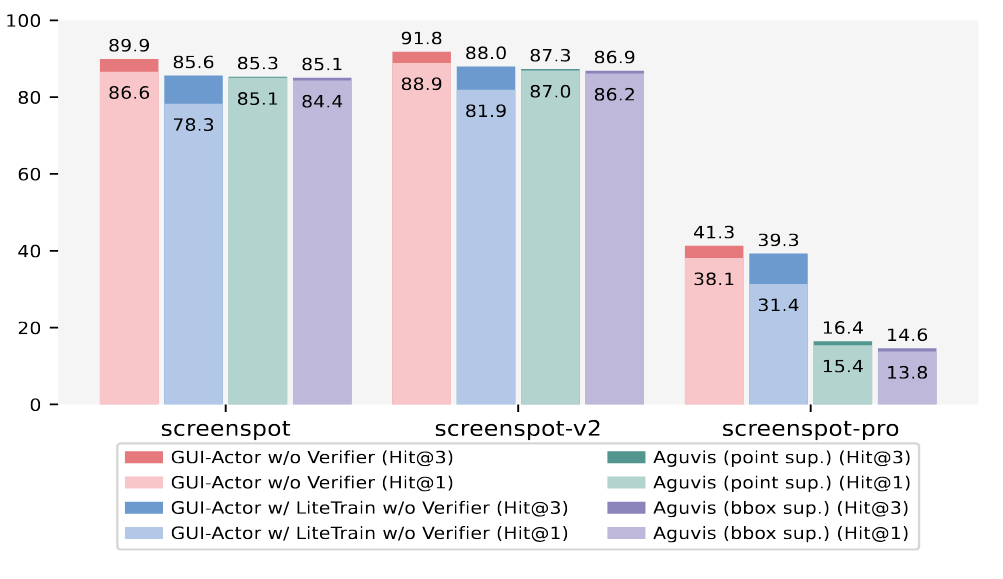
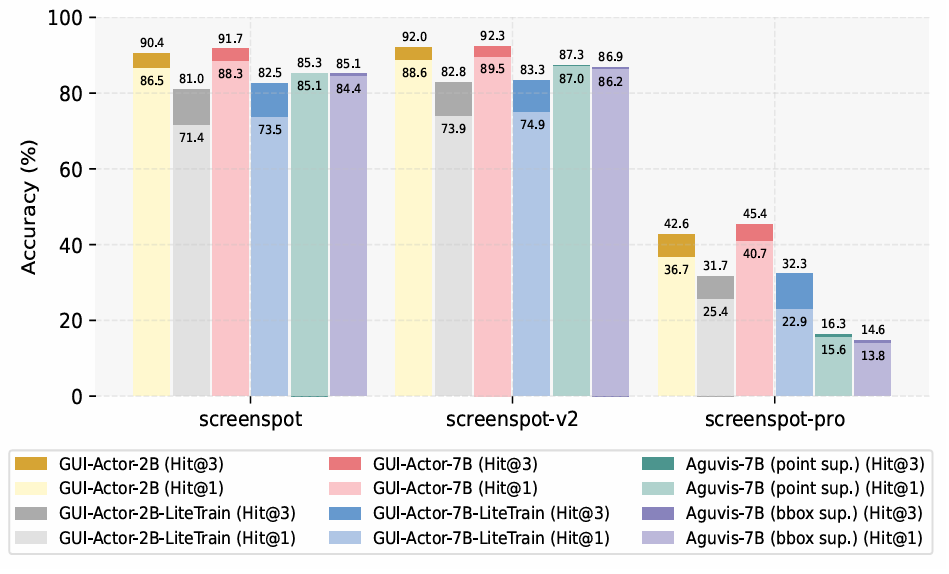
Add all tables.

diff --git a/index.html b/index.html
@@ -21,7 +21,7 @@
   <script src="./static/js/bulma-slider.min.js"></script>
   <script src="./static/js/index.js"></script>
 
-  <link rel="icon" href="">
+  <link rel="icon" href="./static/images/logo.png">
 
   <script type="text/javascript" async src="https://cdnjs.cloudflare.com/ajax/libs/mathjax/2.7.9/MathJax.js?config=TeX-AMS-MML_HTMLorMML"></script>
   <meta property="og:image:width" content="1600" />
@@ -75,6 +75,7 @@
           <div class="columns is-centered">
             <div class="column has-text-centered">
               <div style="display: flex; align-items: center; justify-content: center;">
+                <img src="./static/images/logo.png" alt="GUI-Actor Logo" style="margin-right: 5px; height: 80px;margin-top: -10px;">
                 <h1 class="title is-2 publication-title">GUI-Actor: Coordinate-Free Visual Grounding for GUI Agents</h1>
               </div>
               <div class="is-size-5 publication-authors">
@@ -101,7 +102,7 @@
                   
                   <br>
                   <sup>1</sup>Microsoft Research&nbsp;&nbsp;&nbsp;&nbsp;<sup>2</sup>Nanjing University&nbsp;&nbsp;&nbsp;&nbsp;<sup>3</sup>University of Illinois Urbana-Champaign&nbsp;&nbsp;&nbsp;&nbsp;<br>
-                  <sup>*</sup>First authors.&nbsp;&nbsp;&nbsp;&nbsp;<sup>†</sup>Leadership
+                  <sup>*</sup>Equal Contribution&nbsp;&nbsp;&nbsp;&nbsp;<sup>†</sup>Leadership
                 </span>
               </div>
               <div class="column has-text-centered">
@@ -162,10 +163,9 @@
         </div>  
         <br> 
         <!-- <h2 class="subtitle has-text-centered"> -->
-        <p style="font-size: 100%">
-          <strong>Left: </strong> Comparison across different GUI visual grounding models in terms of training scale and performance.
-          <strong>Middle: </strong> GUI-Actor with lightweight tuning offers a way to effectively endow the underlying VLM with grounding capabilities without compromising its general-purpose strengths. <span style="color: orange;">Need Update: 2B results to replace the second figure (CKZ)</span>
-          <strong>Right: </strong> GUI-Actor grounds target elements by attending to the most relevant visual regions.
+        <p style="font-size: 100%"><strong>Figure 1.</strong>
+          <strong>Left: </strong> Model performance vs. training data scale on the ScreenSpot-Pro benchmark. Higher and more left is better; larger points indicate models with more parameters.
+          <strong>Right: </strong>  Illustration of action attention. GUI-Actor grounds target elements by attending to the most relevant visual regions.
         </p>
         
       </div>
@@ -180,8 +180,11 @@
                 <h3 class="title is-3" style="padding: 0 0 0 0;">Abstract</h3>
                 <div class="content has-text-justified" style="padding-left: 10%; padding-right: 10%;">
                     <p style="font-size: 100%">
-                        One of the principal challenges in building VLM-powered GUI agents is visual grounding—localizing the appropriate screen region for action execution based on both the visual content and the textual plans. Most existing work formulates this as a text-based coordinate generation task. However, these approaches suffer from several limitations: weak spatial-semantic alignment due to the lack of explicit spatial supervision; inability to handle ambiguous supervision targets, as single-point predictions penalize valid variations; and a mismatch between the dense nature of screen coordinates and the coarse, patch-level granularity of visual features extracted by models like Vision Transformers. In this paper, we propose <strong>GUI-Actor</strong>, a VLM-based method for coordinate-free GUI grounding. At its core, <strong>GUI-Actor</strong> introduces an attention-based action head that learns to align a dedicated <i>&lt;ACTOR&gt;</i> token with all relevant visual patch tokens, enabling the model to propose one or more action regions in a single forward pass. In line with this, we design a grounding verifier to evaluate and select the most plausible action region from the candidates proposed for action execution. Extensive experiments show that <strong>GUI-Actor</strong> outperforms prior state-of-the-art methods on multiple GUI action grounding benchmarks, with improved generalization to unseen screen resolutions and layouts. Additionally, we show that by leveraging the verifier, fine-tuning only the newly introduced action head (~100M parameters) while keeping the VLM backbone frozen is sufficient to achieve performance comparable to previous state of the art models, highlighting that <strong>GUI-Actor</strong> can endow the underlying VLM with effective grounding capabilities without compromising its general-purpose strengths. <span style="color: orange;">do we need to modify the LiteTrain part?</span>
-                    </p>
+                        One of the principal challenges in building VLM-powered GUI agents is visual grounding—localizing the appropriate screen region for action execution based on both the visual content and the textual plans. Most existing work formulates this as a text-based coordinate generation task. However, these approaches suffer from several limitations: weak spatial-semantic alignment due to the lack of explicit spatial supervision; inability to handle ambiguous supervision targets, as single-point predictions penalize valid variations; and a mismatch between the dense nature of screen coordinates and the coarse, patch-level granularity of visual features extracted by models like Vision Transformers. In this paper, we propose GUI-Actor, a VLM-based method for coordinate-free GUI grounding. At its core, GUI-Actor introduces an attention-based action head that learns to align a dedicated <i>&lt;ACTOR&gt;</i> token with all relevant visual patch tokens, enabling the model to propose one or more action regions in a single forward pass. In line with this, we further design a grounding verifier to evaluate and select the most plausible action region from the candidates proposed for action execution.
+                        Extensive experiments show that GUI-Actor outperforms prior state-of-the-art methods on multiple GUI action grounding benchmarks, with improved generalization to unseen screen resolutions and layouts.
+                        Notably GUI-Actor-7B (40.7) even surpasses UI-TARS-72B (38.1) on ScreenSpot-Pro, with much fewer parameters and training data.
+                        Furthermore, by incorporating the verifier, we find that fine-tuning only the newly introduced action head (~100M parameters) while keeping the VLM backbone frozen is sufficient to achieve performance comparable to previous state-of-the-art models, highlighting that GUI-Actor can endow the underlying VLM with effective grounding capabilities without compromising its general-purpose strengths.
+                      </p>
                 </div>
             </div>
         </div>
@@ -212,7 +215,7 @@
                         </ul>
                         <p>🎯 <strong>Results:</strong></p>
                         <ul>
-                            <li>GUI-Actor achieves state-of-the-art performance on multiple GUI action grounding benchmarks with the same backbone Qwen2-VL (as Uground and OS-Atlas), demonstrating its effectiveness and generalization to unseen screen resolutions and layouts.</li>
+                            <li>GUI-Actor achieves state-of-the-art performance on multiple GUI action grounding benchmarks, demonstrating its effectiveness and generalization to unseen screen resolutions and layouts. Notably, GUI-Actor-2B even surpasses UI-TARS-72B on ScreenSpot-Pro.</li>
                             <li>We show that by leveraging the verifier, light-weighted training of our GUI-Actor (i.e., freezing the backbone LLM and fine-tuning only the newly introduced ~100M parameters in the action head) can effectively endow the underlying VLM with grounding capabilities without compromising its general-purpose strengths.</li>
                         </ul>
 
@@ -223,7 +226,7 @@
                 </div>
                 <div class="row is-full-width">
                     <div class="content has-text-justified">
-                        <p>
+                        <p> <strong>Figure 2. </strong>Overview of GUI-Actor.</strong>
                             <strong>Left: </strong> Illustration of how the action head works with a VLM for coordinate-free GUI grounding.
                             <strong>Right: </strong> Illustration of the spatial-aware multi-patch supervision for model training. We label all image patches that are partially or fully covered by the ground-truth bounding box as positive (1) and all others as negatives (0).
                         </p>
@@ -244,21 +247,77 @@
             <div class="row is-full-width">
                 <!--h3 class="title is-4"><span class="dvima">Main Result</span></h3-->
                 <p>
-                    Table 1, Table 2, and Table 3 present performance comparisons on ScreenSpot, ScreenSpot-v2, and ScreenSpot-Pro benchmarks, respectively. Our method, <i>GUI-Actor</i>, consistently outperforms existing state-of-the-art approaches across all benchmarks, with the exception of UI-TARS-7B. While UI-TARS-7B achieves strong performance, it benefits from training on a significantly larger dataset that includes both public and proprietary data. Additionally, it undergoes a more extensive training pipeline, including continual pre-training, an annealing phase, and a final stage of direct preference optimization (DPO). Although our model is trained solely with supervised fine-tuning, it achieves competitive or even superior results on ScreenSpot-Pro, demonstrating its strong capability and potential.
+                    Table 1, 2, 3, and 4 present performance comparisons on ScreenSpot-Pro, ScreenSpot, and ScreenSpot-v2 benchmarks. Our <i>GUI-Actor-2B</i> and <i>GUI-Actor-7B</i>, consistently outperform existing state-of-the-art methods across all benchmarks, with the 2B model even surpassing many competing 7B models. While there is one exception UI-TARS-7B achieving stronger performance, it benefits from training on a significantly larger dataset that includes both public and proprietary data (see Figure 1). Additionally, it undergoes a more extensive training pipeline, including continual pre-training, an annealing phase, and a final stage of direct preference optimization (DPO). Although our models are trained solely with supervised fine-tuning, they achieve competitive or even superior results on ScreenSpot-Pro, demonstrating its strong capability and potential.
                 </p>
             </div>
             
             <div class="row is-full-width" style="margin-top: 20px;">
-                <p>Table 1. Performance comparison on ScreenSpot. In <i>GUI-Actor w/ LiteTrain</i>, the backbone VLM is frozen, and only the newly introduced parameters (~100M) are updated during training.</p>
+              <p><strong>Table 1.</strong> Performance comparison on <strong><i>ScreenSpot-Pro</i></strong>, which features higher-resolution interfaces and greater domain shift (<i>e.g.</i>, industrial software, multi-window layouts), serving as a practical testbed for generalization.</p>
+            </div>
+            <div class="row is-full-width is-centered" style="text-align: center;">
+                <img src="./static/images/actor_results_ss_pro.png" width="80%" style="border-radius: 5px;display: inline-block;padding: 0 10px 0 0px;margin: 0 auto;" alt=''>
+            </div>
+
+            <div class="row is-full-width" style="margin-top: 20px;">
+              <p><strong>Table 2.</strong> Performance comparison on <strong><i>ScreenSpot</i></strong>.</p>
             </div>
             <div class="row is-full-width is-centered" style="text-align: center;">
                 <img src="./static/images/actor_results_ss.png" width="80%" style="border-radius: 5px;display: inline-block;padding: 0 10px 0 0px;margin: 0 auto;" alt=''>
+            </div>
+
+            <div class="row is-full-width" style="margin-top: 20px;">
+              <p><strong>Table 3.</strong> Performance comparison on <strong><i>ScreenSpot-v2</i></strong>. † indicates results obtained from our ouwn evaluation of the official model on Huggingface.</p>
+            </div>
+            <div class="row is-full-width is-centered" style="text-align: center;">
+                <img src="./static/images/actor_results_ss_v2.png" width="80%" style="border-radius: 5px;display: inline-block;padding: 0 10px 0 0px;margin: 0 auto;" alt=''>
+            </div>
+
+            <div class="row is-full-width" style="margin-top: 20px;">
+              <p><strong>Table 4.</strong> Performance comparison of models based on the <strong><i>Qwen-2.5-VL</i></strong> backbone.</p>
+            </div>
+            <div class="row is-full-width is-centered" style="text-align: center;">
+                <img src="./static/images/actor_results_qwen25vl.png" width="80%" style="border-radius: 5px;display: inline-block;padding: 0 10px 0 0px;margin: 0 auto;" alt=''>
             </div>
         </div>
     </div>
 </div>
 </section>
 
+<section>
+  <div class="container is-max-desktop">
+      <div class="rows">
+          <div class="rows is-centered">
+              <div class="row is-full-width">
+                  <h2 class="title is-3" style="padding-top: 40px;"><span class="dvima">Robust Out-of-Distribution Generalization</span></h2>
+              </div>
+              <div class="row is-full-width" style="margin-top: 20px;">
+                  <p>As shown in Table 1 and Table 4, GUI-Actor models demonstrate strong performance on ScreenSpot-Pro—an out-of-distribution benchmark characterized by higher resolutions and substantial domain shifts from the training data—surpassing the previous state-of-the-art UI-TARS model by +9.0 and +5.0 points with 2B and 7B parameters, respectively. We attribute this gain to explicit spatial-semantic alignment: unlike coordinate-based approaches such as UI-TARS, GUI-Actor leverages an attention-based action head that grounds semantic cues directly in discrete visual regions. This design embeds a stronger spatial inductive bias and naturally aligns with the patch-based representations of modern vision backbones. As a result, GUI-Actor is better equipped to reason over localized visual content, enabling robust generalization across diverse screen resolutions and UI layouts.</p>
+              </div>
+          </div>
+      </div>
+  </div>
+</section>
+
+<section>
+  <div class="container is-max-desktop">
+      <div class="rows">
+          <div class="rows is-centered">
+              <div class="row is-full-width">
+                  <h2 class="title is-3" style="padding-top: 40px;"><span class="dvima">Enabling backbone VLM grounding on GUIs without sacrificing general-purpose strengths.</span></h2>
+              </div>
+              <div class="row is-full-width" style="margin-top: 20px;">
+                  <p>We introduce a variant, <i>GUI-Actor-LiteTrain</i>, where we freeze all backbone VLM parameters and train only the newly introduced components for the action head (~100M parameters). This setup explores how GUI-Actor can impart GUI grounding capabilities without diminishing the VLM's general-purpose strengths. As shown in Table 5, <i>GUI-Actor-LiteTrain</i> yields substantial performance improvements over the unmodified backbone VLM. With the help of a grounding verifier, it even rivals fully fine-tuned coordinate generation models. These results suggest that the backbone VLM already exhibits strong perceptual understanding of UI screenshots. As such, training the model to generate coordinates in text format may primarily focus on coordinate mapping, offering limited contribution to the semantic understanding of UI elements. More importantly, <i>GUI-Actor-LiteTrain</i> retains the backbone's original language and vision-language capabilities, demonstrating that lightweight integration can enable grounding without compromising generality.</p>
+              </div>
+              <div class="row is-full-width">
+                  <p><strong>Table 5. </strong>Analysis on lightweight training (<i>-LiteTrain</i>), where the backbone VLM (<i>e.g.</i>, Qwen-2-VL) is frozen, and only the newly introduced parameters (~100M for the action head and special tokens) are updated during training.</p>
+              </div>
+              <div class="row is-full-width is-centered" style="text-align: center;">
+                <img src="./static/images/actor_litetrain.png" alt="" width="70%" style="border-radius: 5px;display: inline-block;padding: 0 10px 0 0px;margin: 0 auto;">
+              </div>
+          </div>
+      </div>
+  </div>
+</section>
 
 
 <section>
@@ -266,30 +325,30 @@
         <div class="rows">
             <div class="rows is-centered">
                 <div class="row is-full-width">
-                    <h2 class="title is-3" style="padding-top: 40px;"><span class="dvima">Study on Top-K Prediction</span></h2>
+                    <h2 class="title is-3" style="padding-top: 40px;"><span class="dvima">Multi-Region Prediction Without Extra Inference Cost</span></h2>
                 </div>
                 <div class="row is-full-width" style="margin-top: 20px;">
-                    <p>Figure (a) below illustrates a significant performance gain from Hit@1 to Hit@3 for our method, whereas the gap for baselines is relatively marginal. In our analysis, we observed that for coordinate-generation–based baselines, even when multiple predictions are sampled, the outputs are mostly identical, e.g., shifting slightly from (0.898, 0.667) to (0.899, 0.666). In contrast, our model simultaneously produces multiple candidate regions from the attention distribution in a single forward pass. These candidates are mutually exclusive, naturally promoting diversity and increasing the chance of capturing all valid action regions. Figure (b) below provides a qualitative example where our approach successfully identifies all ground-truth regions required for action execution.</p>
+                    <p>Due to its attention-based grounding mechanism, GUI-Actor can generate multiple candidate action regions in a single forward pass, incurring no extra inference cost. To evaluate the effectiveness of these high-probability regions, we use the Hit@k metric, where k represents the number of top-ranked predictions considered. Figure 3a shows that GUI-Actor exhibits a substantial improvement from Hit@1 to Hit@3, whereas the gap for baselines is relatively marginal. In our analysis, we observed that for coordinate-generation-based baselines, even when multiple predictions are sampled, the outputs are mostly identical, e.g., shifting slightly from (0.898, 0.667) to (0.899, 0.666). In contrast, our model simultaneously produces multiple candidate regions from the attention distribution in a single forward pass. These candidates are mutually exclusive, naturally promoting diversity and increasing the chance of capturing all valid action regions. Figure 3b provides a qualitative example where our approach successfully identifies all ground-truth regions required for action execution.</p>
                 </div>
                 <div class="row is-full-width" style="margin-top: 20px;">
                     <img src="./static/images/actor_hit3.png" alt="" width="50%">
-                    <img src="./static/images/actor_attention_weight_multiple.png" alt="" width="50%">
+                    <img src="./static/images/actor_attn.png" alt="" width="50%">
                 </div>
                 <div class="row is-full-width" style="display: flex; justify-content: space-between;">
                     <div class="column" style="text-align: left; width: 50%;">
                         <p>
-                            (a) Hit@1 and Hit@3 for different methods. For Aguvis baselines, we run inference 3 times with temperature = 1.0, top_p = 0.95.
+                            (a) Hit@1 and Hit@3 for different models.
                         </p>
                     </div>
                     <div class="column" style="text-align: left; width: 50%;">
                         <p>
-                            (b) Illustration of multi-region prediction. In this example, the instruction is "check shopping cart", while the ground truth is only the top-right icon.
+                            (b) GUI-Actorcancapturemultiplepotentialregions.
                         </p>
                     </div>
                 </div>
-                <!--div class="row is-full-width">
-                    <p>Figure. (a) Hit@1 and Hit@3 for different methods. For Aguvis baselines, we run inference 3 times with temperature = 1.0, top_p = 0.95. (b) Illustration of multi-region prediction. In this example, the instruction is "check shopping cart", while the ground truth is only the top-right icon.</p>
-                </div-->
+                <div class="row is-full-width">
+                    <p><strong>Figure 3. </strong>(a) Hit@1 and Hit@3 for different methods. For Aguvis baselines, we run inference 3 times with temperature = 1.0, top_p = 0.95. (b) Illustration of multi-region prediction. In this example, the instruction is "check shopping cart" and the central "shopping cart'' text is clickable, while the ground truth is only the top-right icon.</p>
+                </div>
             </div>
         </div>
     </div>
@@ -323,6 +382,7 @@
                 Website adapted from <a style="color:hsla(194, 67%, 58%, 0.862)" href="https://github.com/nerfies/nerfies.github.io">NeRFies</a> and <a style="color:hsla(194, 67%, 58%, 0.862)" href="https://microsoft.github.io/Magma/">Magma</a> under <a style="color:hsla(194, 67%, 58%, 0.862)"
                 href="https://creativecommons.org/licenses/by-sa/4.0/">Creative Commons Attribution-ShareAlike 4.0 International</a>
             </p>
+            <p>© 2025 Microsoft</p>
             </div>
         </div>
         </div>
